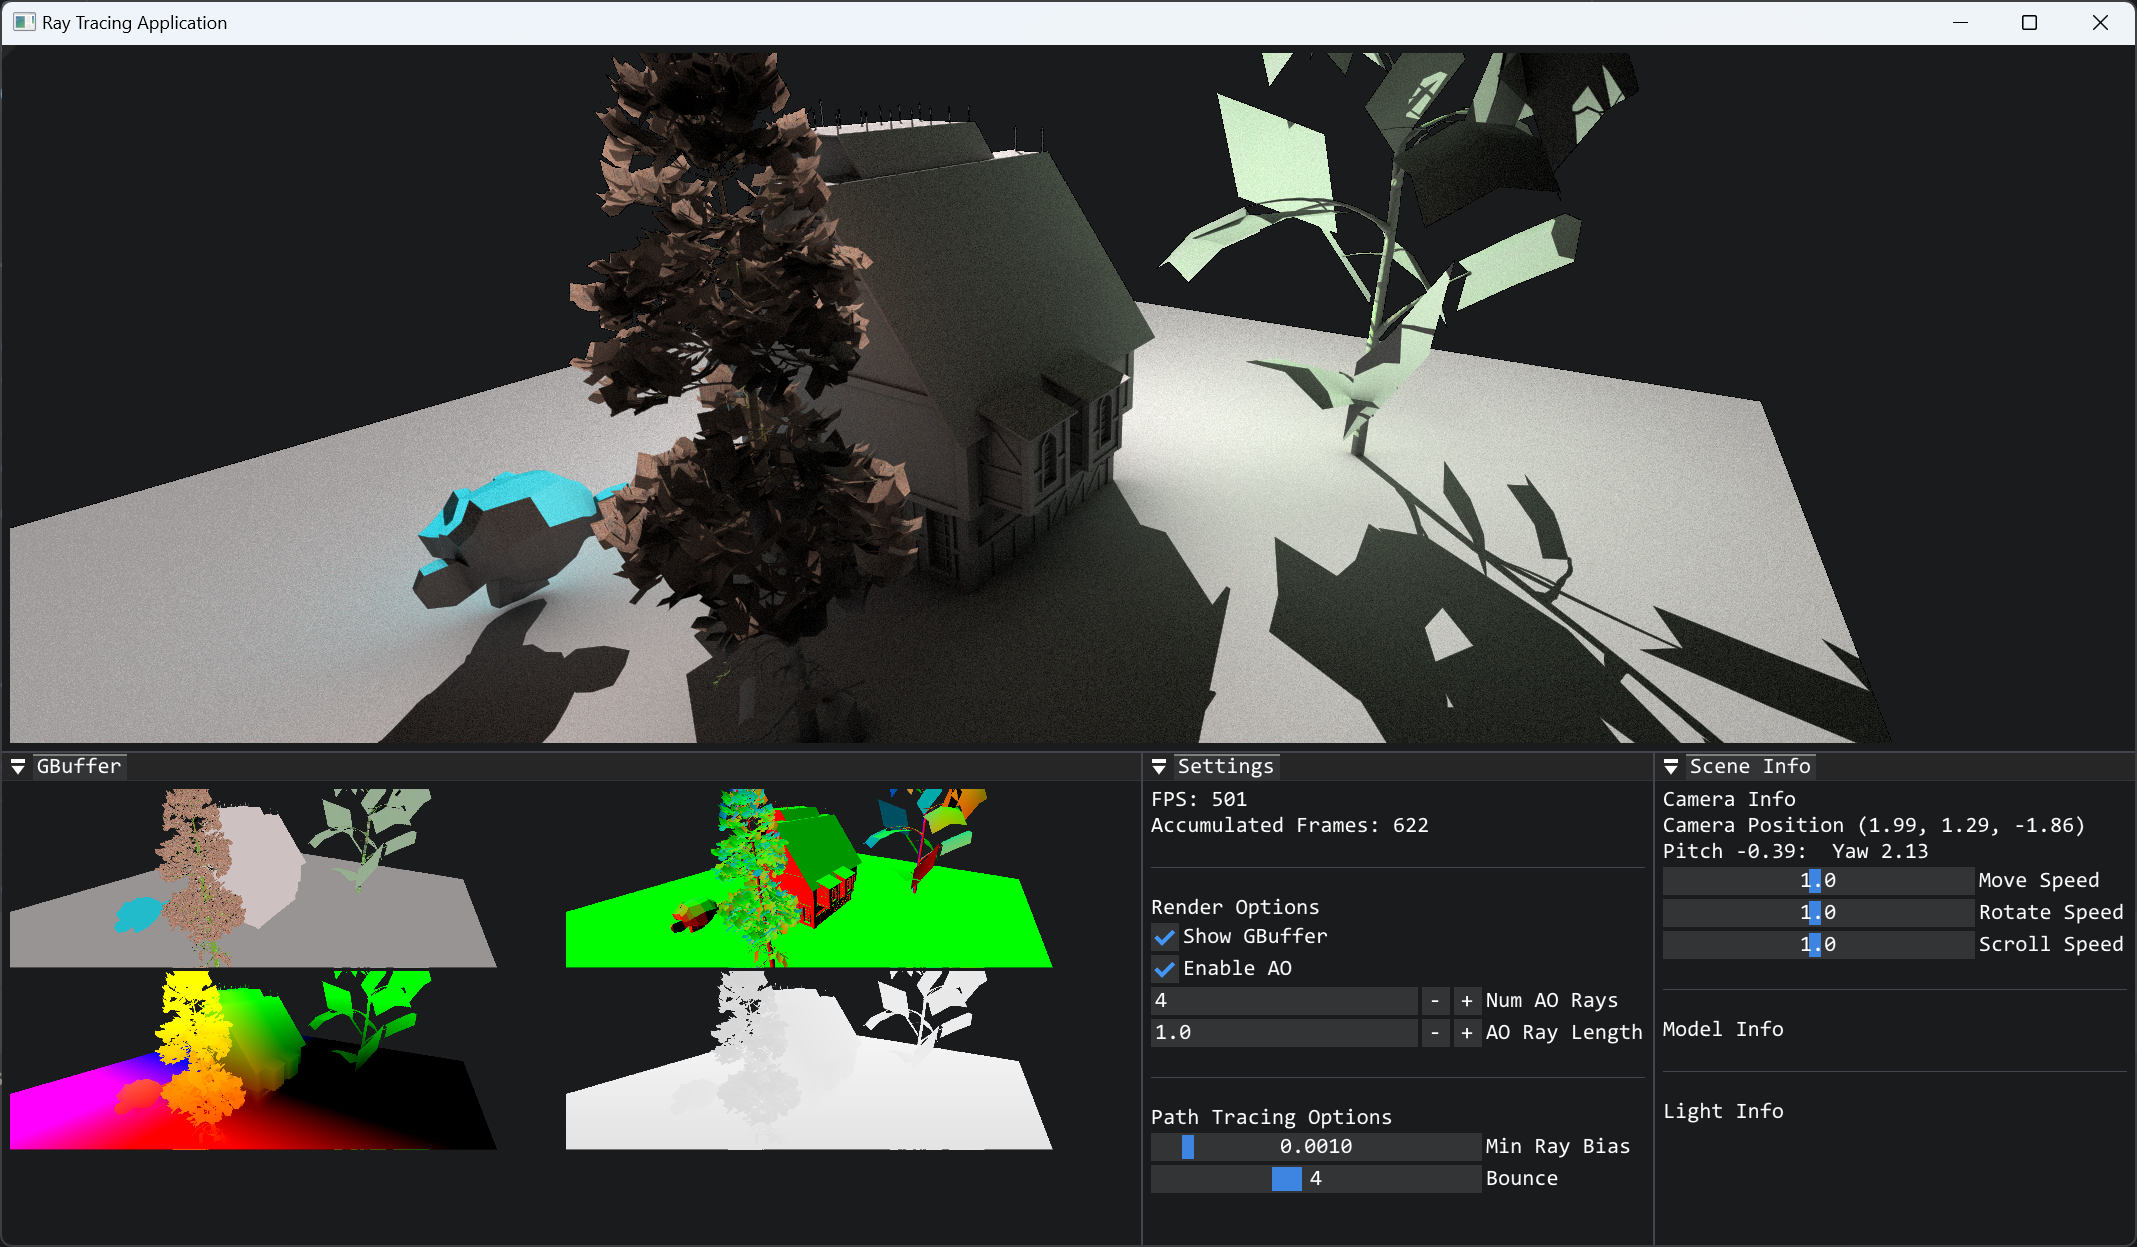
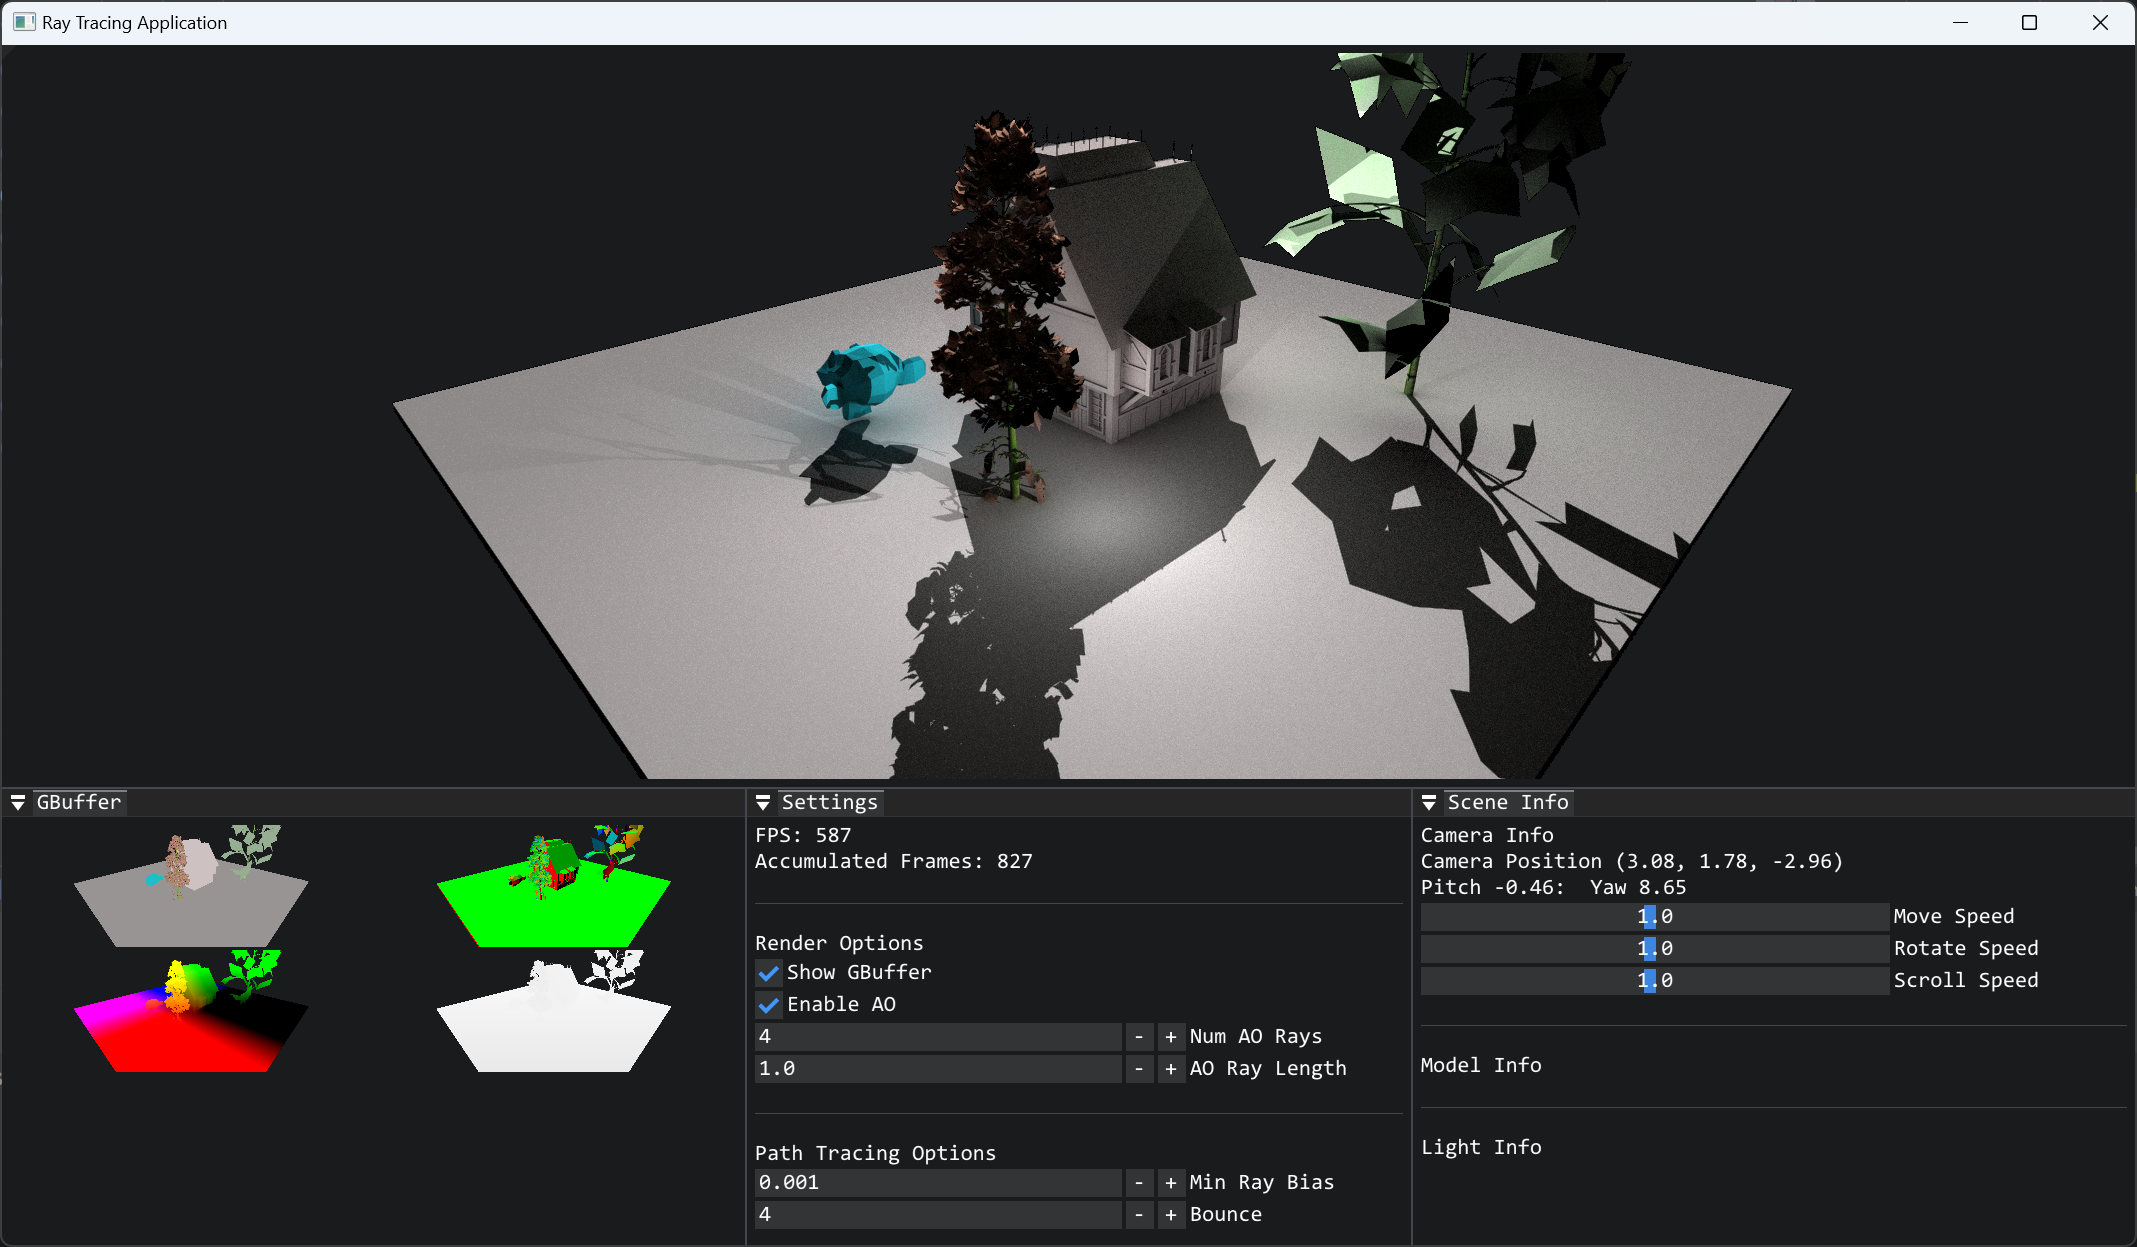
Add TracePointLight

diff --git a/src/core/application/VulkanRayTracingApp.cpp b/src/core/application/VulkanRayTracingApp.cpp
@@ -793,11 +793,23 @@ namespace HWPT {
         m_RTScene = new Scene();
         m_vikingRoom->SetModelName("VikingRoom");
         m_RTScene->AddModel(m_vikingRoom);
+
         m_RTScene->AddLight(
                 glm::normalize(glm::vec3(1.f, -1.f, -1.f)),
                 LightType::Directional,
                 glm::vec3(.5f, .5f, .5f),
                 0.f,
+                glm::vec3(1.f, 1.f, 1.f),
+                5.f,
+                0.f,
+                0.f,
+                0.f
+        );
+        m_RTScene->AddLight(
+                glm::vec3(0.f, 0.f, 0.f),
+                LightType::Point,
+                glm::vec3(1.f, .2f, -1.f),
+                3.f,  // Radius
                 glm::vec3(1.f, 1.f, 1.f),
                 3.1415926f,
                 0.f,

diff --git a/src/core/application/VulkanBackendApp.cpp b/src/core/application/VulkanBackendApp.cpp
@@ -83,6 +83,7 @@ namespace HWPT
         glfwInit();
         glfwWindowHint(GLFW_CLIENT_API, GLFW_NO_API);
         glfwWindowHint(GLFW_RESIZABLE, GLFW_TRUE);
+//        glfwWindowHint(GLFW_DECORATED, GL_FALSE);
 
         m_window = glfwCreateWindow(
             static_cast<int>(m_windowWidth), static_cast<int>(m_windowHeight),
